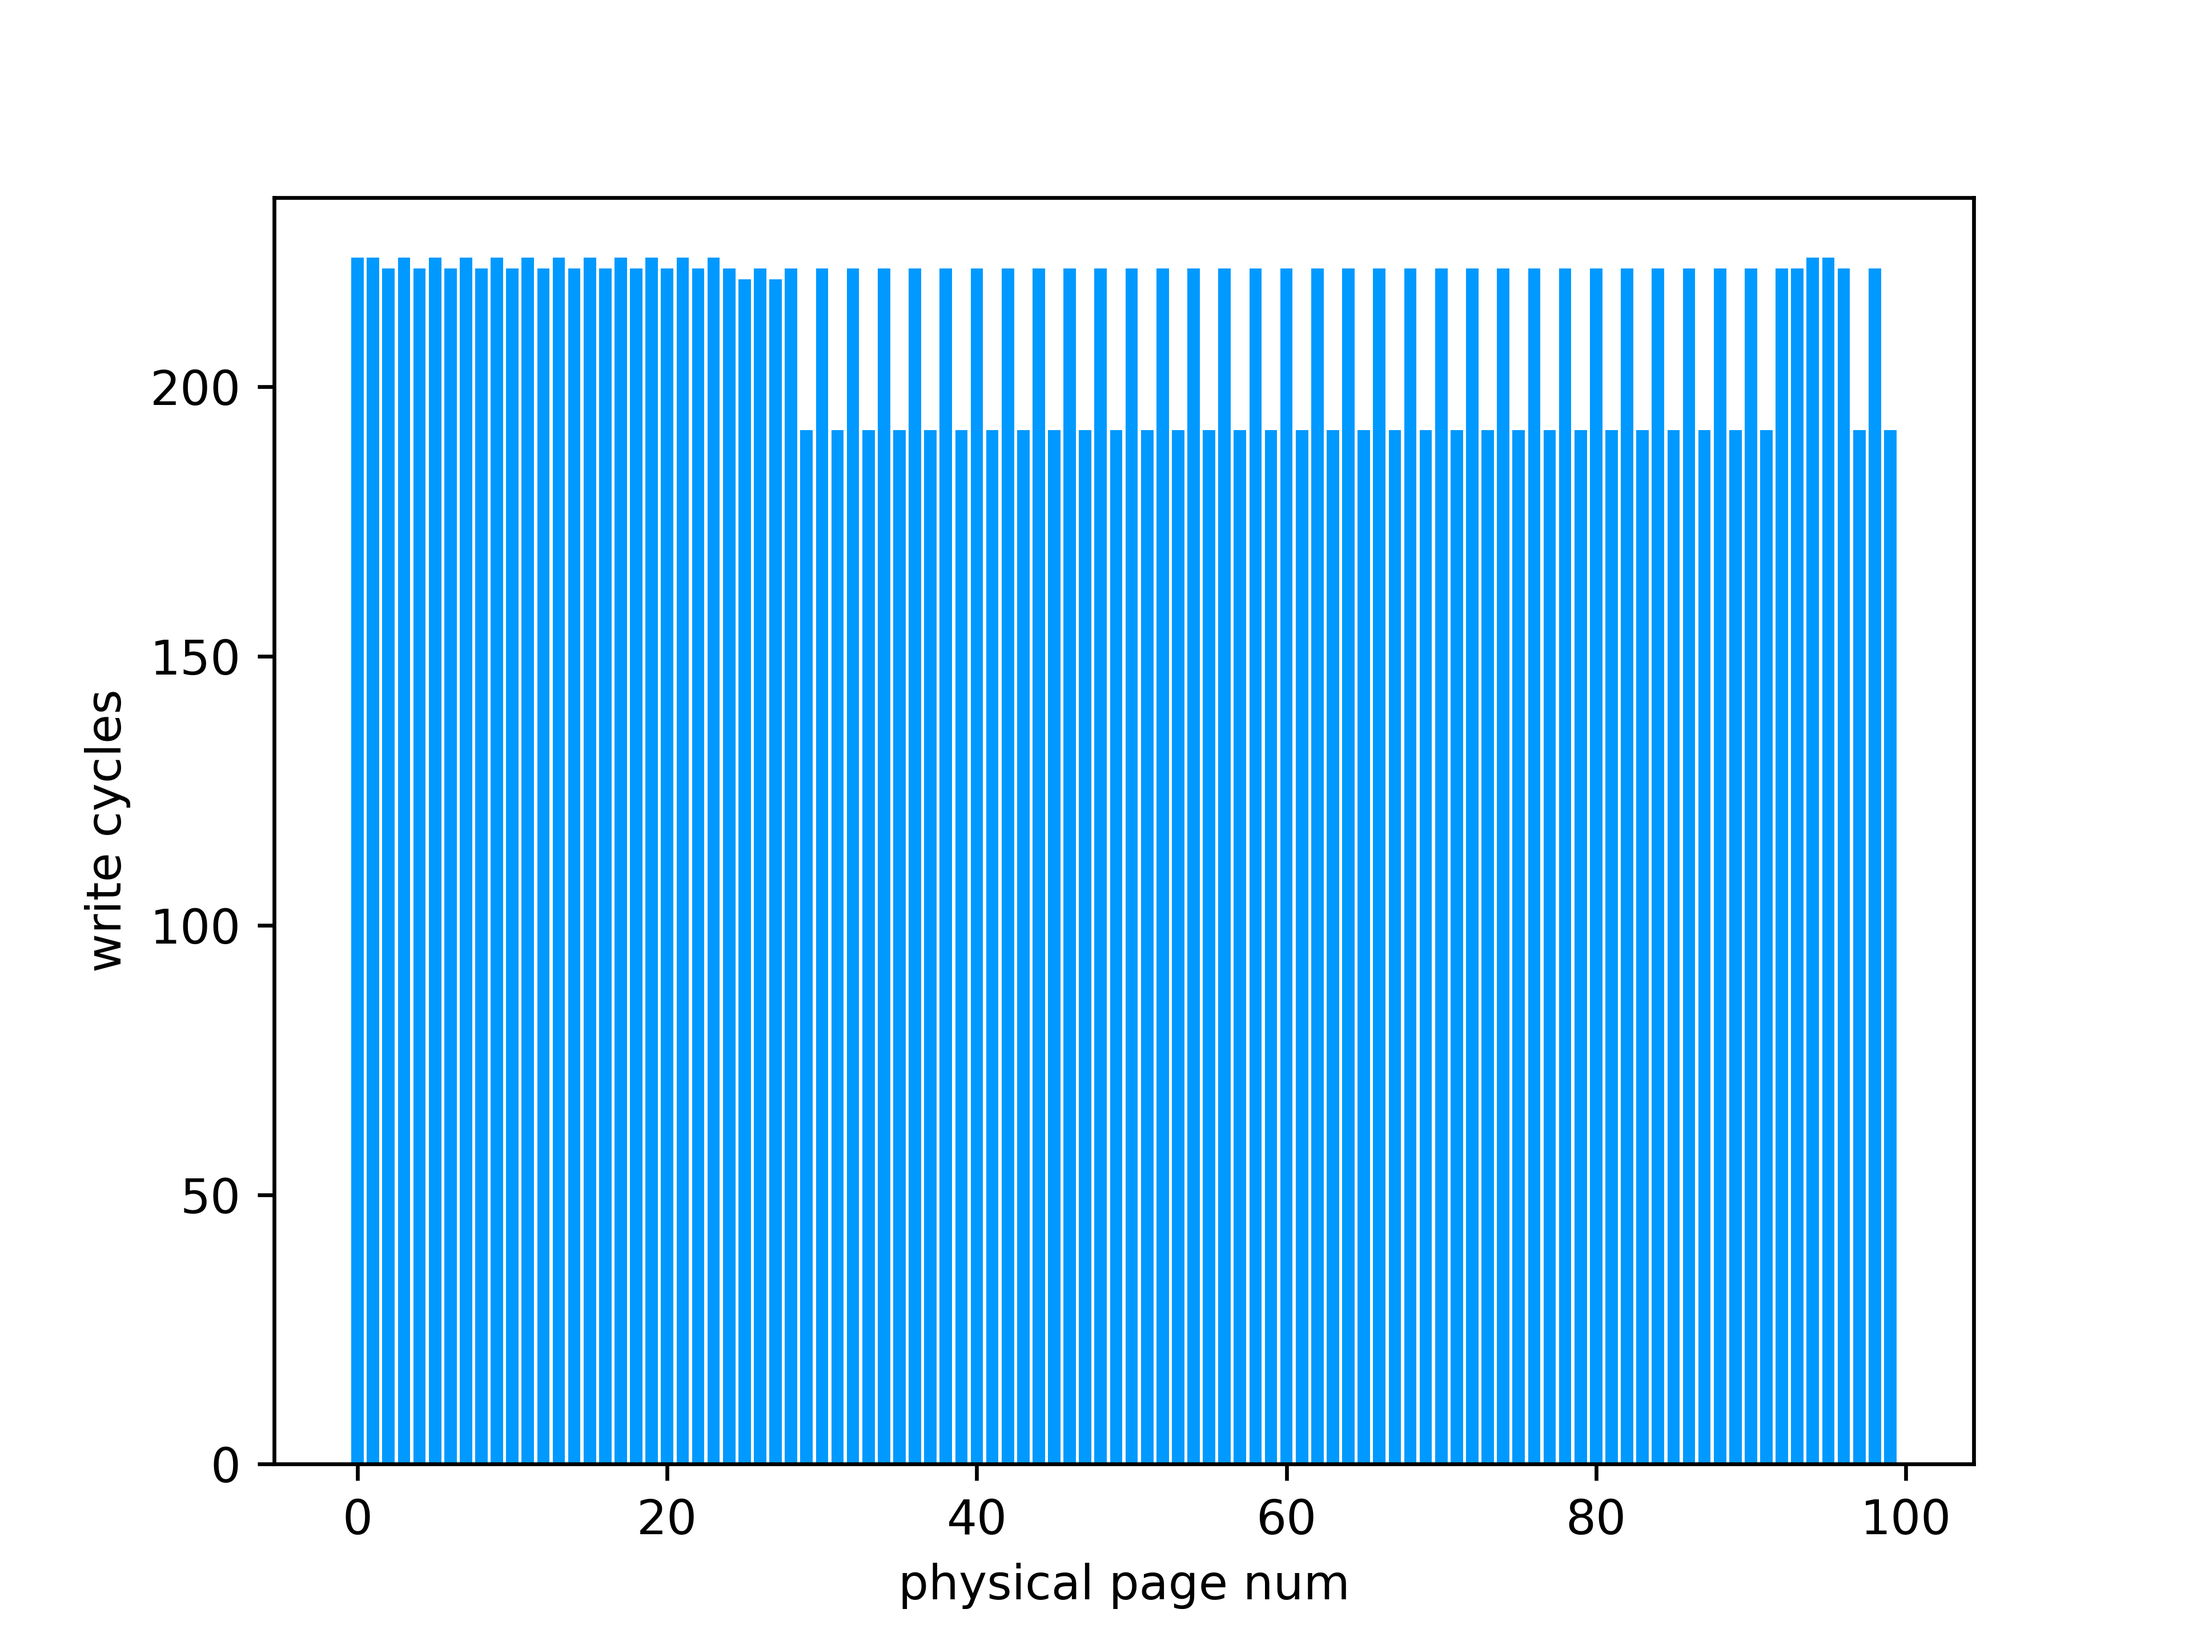
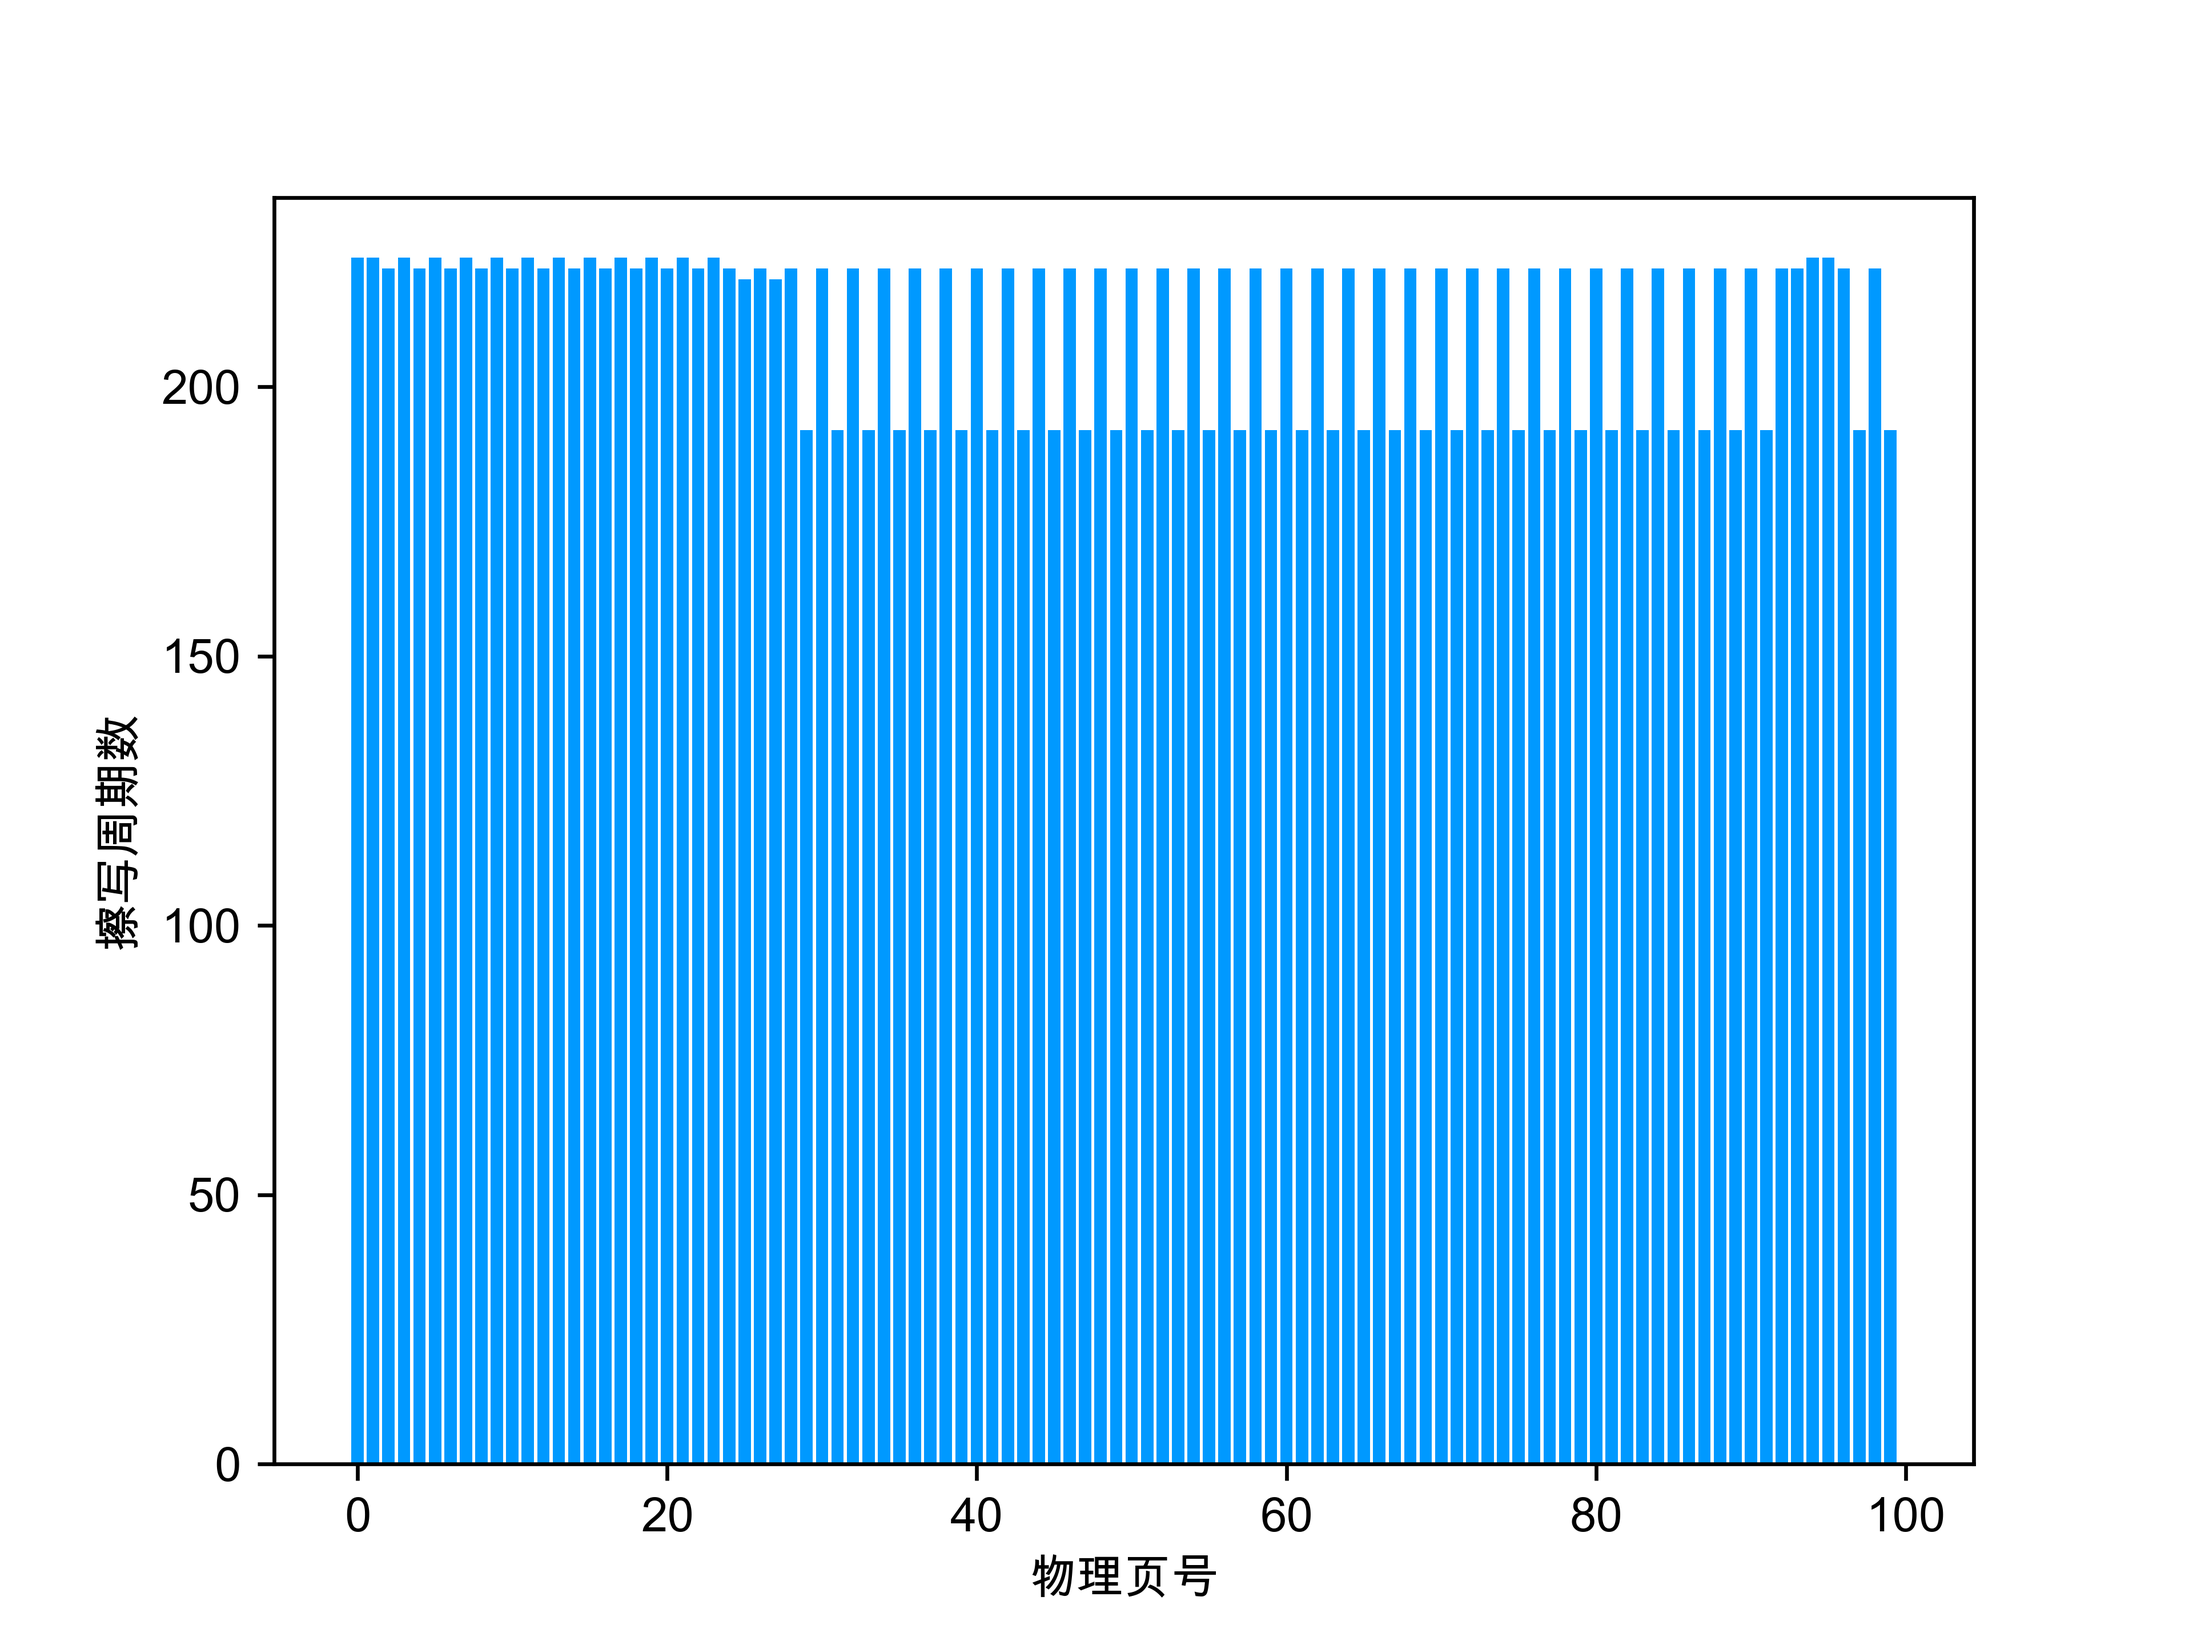
1. add spend time in performance.print 2. support chinese lable in matplotlib

diff --git a/performance.cc b/performance.cc
@@ -37,6 +37,10 @@ long long ETLPerformance::GetRAMCost() {
 	return this->etl_->performance_statistics_.RAM_cost;
 }
 
+long long ETLPerformance::GetSpendTime() {
+	return this->timer_.GetInterval();
+}
+
 long long ETLPerformance::GetWriteSpeed() {
 	this->etl_->performance_statistics_.time_cost_in_sec = this->timer_.GetInterval();
 	return this->etl_->performance_statistics_.total_write_bytes
@@ -54,6 +58,7 @@ float ETLPerformance::GetPageTableHitRatio() {
 void ETLPerformance::PrintInfo() {
 	LOG_INFO("++++++++++++ performance +++++++++++++++\r\n\r\n");
 	LOG_INFO("write speed\t\t%lld B/sec\r\n", this->GetWriteSpeed());
+	LOG_INFO("spend time\t\t%lld sec\r\n", this->GetSpendTime());
 	LOG_INFO("overhead ratio\t\t%f\r\n", this->GetOverheadRatio());
 	LOG_INFO("standard deviation\t%f\r\n", this->GetStandardDeviation());
 	LOG_INFO("RAM cost\t\t%d B\r\n", this->GetRAMCost());

diff --git a/matplot/makefigure.py b/matplot/makefigure.py
@@ -267,10 +267,11 @@ def makeBarRAMCost(ram_cost, save):
 def makeBarPageEC(pageECList):
 
     plt.figure(1, dpi=600)
+    plt.rcParams['font.sans-serif'] = ['Arial Unicode MS']
     ax = plt.subplot(1, 1, 1)
     rects = plt.bar(range(len(pageECList)), pageECList, color='#0099FF')
-    ax.set_ylabel('write cycles')
-    ax.set_xlabel('physical page num')
+    ax.set_ylabel('擦写周期数')
+    ax.set_xlabel('物理页号')
 
 #     plt.show()
     plt.savefig('4.6_figure_2.png')

diff --git a/main.cc b/main.cc
@@ -22,9 +22,9 @@ int main(void) {
 	// ETLWriteAndReadTest();
 	// ETLFullWriteAndReadFullTest();
 	// DualPoolTeste();
-	// TestSingleHotPage(1000);
+	TestSingleHotPage(10000);
 	// TestRandomWrite(10000);
-	TestMultiHotPage();
+	// TestMultiHotPage();
 	// TestHotPageToColdPage(1000);
 	// SampleSimulation(200);
 	// MultiWriteTest(10000);

diff --git a/performance.h b/performance.h
@@ -26,6 +26,8 @@ class ETLPerformance {
     public:
 	ETLPerformance(ETL* etl) : etl_(etl) {
 	}
+
+	long long GetSpendTime();
 	float	  GetStandardDeviation();
 	float	  GetOverheadRatio();
 	long long GetRAMCost();

diff --git a/experiment-record.md b/experiment-record.md
@@ -493,6 +493,11 @@ hitrate time    cachesize
 0.62    37.00   120
 0.69    32.00   160
 
+**T1,no cache**
+-       68      - 
+
+**T2,no cache**
+-       68      - 
 
 **T2,2Q**
 0.25    58.00   40
